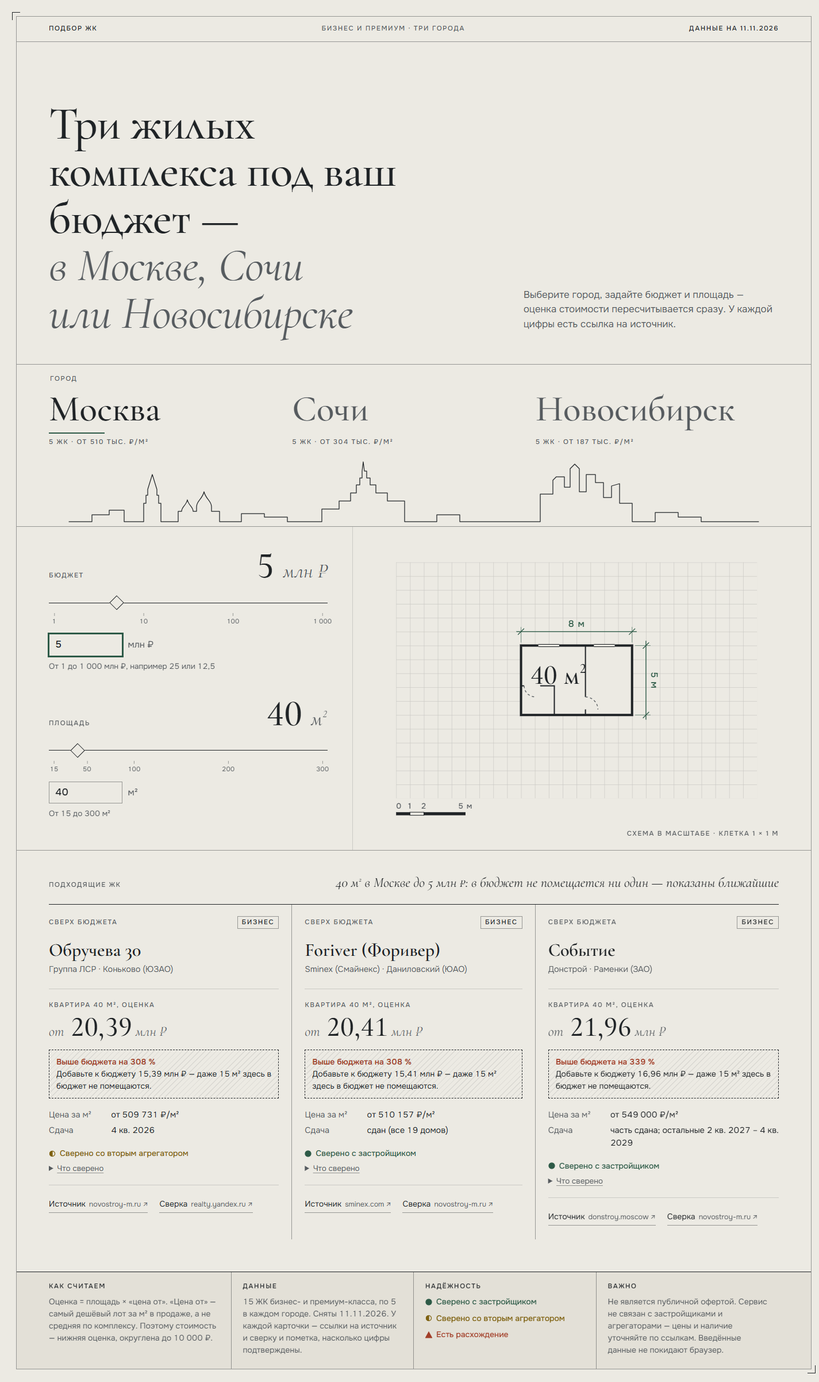
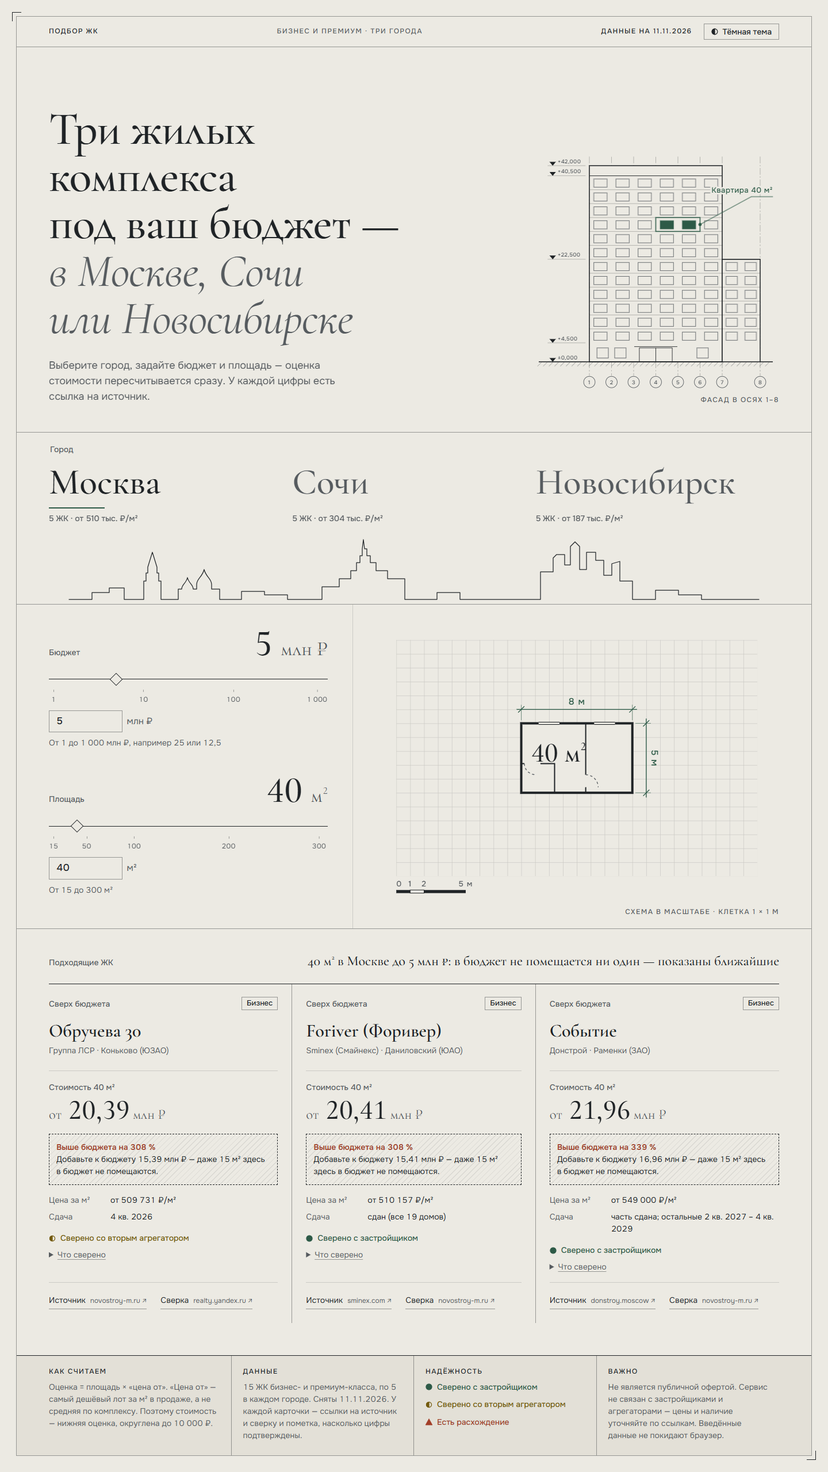
Полировка интерфейса: регистр подписей, курсив, сетка 4 px, единый формат цен
- капс оставлен только на чертёжных надписях (штамп, подписи видов),
  подписи интерфейса — обычным регистром
- курсив только во второй строке заголовка
- отступы и размеры переведены на сетку 4 px
- ссылки «Источник / Сверка» прижаты к низу карточек (margin-top
  перебивал margin-top: auto)
- оценки «от» всегда с двумя знаками: 9,80 рядом с 21,96
- подчёркивание города анимируется transform, а не width
- обновлены скриншоты и GIF, убраны устаревшие снимки

diff --git a/web/public/style.css b/web/public/style.css
@@ -41,7 +41,8 @@ ol, ul { list-style: none; }
 a { color: inherit; }
 :focus-visible { outline: 2px solid var(--accent); outline-offset: 3px; }
 
-.caps { font: 500 11.5px/1.3 var(--text); letter-spacing: .14em; text-transform: uppercase; }
+.caps { font: 500 12px/1.3 var(--text); letter-spacing: .12em; text-transform: uppercase; } /* только чертёжные надписи: штамп, подписи видов */
+.label { font: 500 14px/1.3 var(--text); }
 .muted { color: var(--ink-2); }
 .sr-only { position: absolute; width: 1px; height: 1px; overflow: hidden; clip-path: inset(50%); white-space: nowrap; }
 
@@ -57,7 +58,7 @@ a { color: inherit; }
     linear-gradient(var(--line), var(--line)) 75% 0 / 1px 100% no-repeat;
 }
 .sheet::before, .sheet::after {
-  content: ""; position: absolute; width: 14px; height: 14px; pointer-events: none;
+  content: ""; position: absolute; width: 16px; height: 16px; pointer-events: none;
   border: 0 solid var(--ink);
 }
 .sheet::before { top: -8px; left: -8px; border-width: 1px 0 0 1px; }
@@ -65,18 +66,18 @@ a { color: inherit; }
 .sheet > *, main > * { padding-inline: var(--gutter); }
 .sheet > main { padding-inline: 0; }
 .sq { font-size: .5em; vertical-align: .8em; line-height: 0; margin-left: .04em; }
-.big .u { font-size: .55em; font-style: italic; font-weight: 400; color: var(--ink-2); }
+.big .u { font-size: .55em; font-weight: 400; color: var(--ink-2); }
 
 .stamp-top {
   display: flex; justify-content: space-between; align-items: center; gap: 16px;
-  padding-block: 14px;
+  padding-block: 16px;
   border-bottom: 1px solid var(--line-2);
   background: var(--paper);
 }
 
 .top-right { display: flex; align-items: center; gap: 20px; }
 .theme {
-  display: inline-flex; align-items: center; gap: 8px; margin: -6px 0; padding: 6px 10px;
+  display: inline-flex; align-items: center; gap: 8px; margin: -4px 0; padding: 4px 12px;
   border: 1px solid var(--line-2); border-radius: 0; background: transparent; color: var(--ink); cursor: pointer;
   transition: border-color .2s, color .2s;
 }
@@ -99,7 +100,7 @@ h1 > span, h1 em { display: block; }
 h1 em { font-style: italic; font-weight: 400; color: var(--ink-2); }
 .facade { justify-self: end; width: 100%; max-width: 440px; }
 .facade svg { display: block; width: 100%; height: auto; overflow: visible; }
-.facade figcaption { margin-top: 6px; text-align: right; }
+.facade figcaption { margin-top: 8px; text-align: right; }
 .fa-axis { stroke: var(--line-2); stroke-width: .6; stroke-dasharray: 10 3 2 3; }
 .fa-bub { fill: var(--paper); stroke: var(--ink-2); stroke-width: .8; }
 .fa-t { fill: var(--ink-2); font: 500 8.5px var(--text); letter-spacing: .04em; }
@@ -114,13 +115,13 @@ h1 em { font-style: italic; font-weight: 400; color: var(--ink-2); }
 .fa-lead { fill: none; stroke: var(--accent); stroke-width: .9; }
 .fa-dot { fill: var(--accent); }
 .fa-call { fill: var(--accent); font: 500 12px var(--text); letter-spacing: .04em; paint-order: stroke; stroke: var(--paper); stroke-width: 5px; stroke-linejoin: round; }
-.lead { max-width: 44ch; margin-top: 28px; color: var(--ink-2); font-size: 17px; }
+.lead { max-width: 44ch; margin-top: 28px; color: var(--ink-2); font-size: 18px; }
 
 /* Город: крупный типографический переключатель */
-.cities { border: 0; border-top: 1px solid var(--line-2); padding-top: 18px; min-width: 0; background: var(--paper); }
-.cities legend { float: left; width: 100%; margin-bottom: 6px; color: var(--ink-2); }
+.cities { border: 0; border-top: 1px solid var(--line-2); padding-top: 20px; min-width: 0; background: var(--paper); }
+.cities legend { float: left; width: 100%; margin-bottom: 8px; color: var(--ink-2); }
 .cities-row { clear: both; display: grid; grid-template-columns: repeat(3, minmax(0, 1fr)); }
-.city { position: relative; cursor: pointer; padding: 6px 0 10px; }
+.city { position: relative; cursor: pointer; padding: 8px 0 12px; }
 .city input { position: absolute; opacity: 0; inset: 0; margin: 0; cursor: pointer; }
 .city-name {
   display: block;
@@ -129,13 +130,13 @@ h1 em { font-style: italic; font-weight: 400; color: var(--ink-2); }
   transition: color .25s var(--ease);
 }
 .city-name::after {
-  content: ""; display: block; height: 2px; width: 0; margin-top: 10px;
-  background: var(--accent); transition: width .35s var(--ease);
+  content: ""; display: block; height: 2px; width: 3.2ch; margin-top: 12px;
+  background: var(--accent); transform: scaleX(0); transform-origin: left; transition: transform .35s var(--ease);
 }
 .city-meta { display: block; margin-top: 8px; color: var(--ink-2); }
 .city:hover .city-name { color: var(--ink); }
 .city input:checked ~ .city-name { color: var(--ink); }
-.city input:checked ~ .city-name::after { width: 3.2ch; }
+.city input:checked ~ .city-name::after { transform: none; }
 .city input:focus-visible ~ .city-name { outline: 2px solid var(--accent); outline-offset: 4px; }
 
 .skyline { display: block; width: 100%; height: clamp(64px, 9vw, 120px); margin-top: 8px; overflow: visible; }
@@ -164,37 +165,37 @@ h1 em { font-style: italic; font-weight: 400; color: var(--ink-2); }
 
 input[type=range] {
   -webkit-appearance: none; appearance: none;
-  display: block; width: 100%; height: 36px; margin: 14px 0 0;
+  display: block; width: 100%; height: 36px; margin: 12px 0 0;
   background: linear-gradient(var(--ink), var(--ink)) 0 50% / 100% 1px no-repeat;
   cursor: pointer;
 }
 input[type=range]::-webkit-slider-thumb {
-  -webkit-appearance: none; width: 18px; height: 18px;
+  -webkit-appearance: none; width: 16px; height: 16px;
   background: var(--paper); border: 1.5px solid var(--ink); transform: rotate(45deg);
 }
 input[type=range]::-moz-range-thumb {
-  width: 15px; height: 15px; border-radius: 0;
+  width: 12px; height: 12px; border-radius: 0;
   background: var(--paper); border: 1.5px solid var(--ink); transform: rotate(45deg);
 }
 input[type=range]:hover::-webkit-slider-thumb, input[type=range]:focus-visible::-webkit-slider-thumb { background: var(--accent); border-color: var(--accent); }
 input[type=range]:hover::-moz-range-thumb, input[type=range]:focus-visible::-moz-range-thumb { background: var(--accent); border-color: var(--accent); }
 input[type=range]:focus-visible { outline-offset: 2px; }
 
-.ticks { position: relative; height: 18px; margin: 0 9px; color: var(--ink-2); font-size: 11px; }
-.ticks span { position: absolute; left: calc(var(--p) * 100%); transform: translateX(-50%); padding-top: 6px; white-space: nowrap; }
+.ticks { position: relative; height: 20px; margin: 0 8px; color: var(--ink-2); font-size: 12px; }
+.ticks span { position: absolute; left: calc(var(--p) * 100%); transform: translateX(-50%); padding-top: 8px; white-space: nowrap; }
 .ticks span:last-child { transform: translateX(-80%); }
-.ticks span::before { content: ""; position: absolute; top: 0; left: 50%; height: 5px; border-left: 1px solid var(--line-2); }
+.ticks span::before { content: ""; position: absolute; top: 0; left: 50%; height: 4px; border-left: 1px solid var(--line-2); }
 
-.num { display: flex; align-items: baseline; gap: 10px; margin-top: 18px; }
+.num { display: flex; align-items: baseline; gap: 8px; margin-top: 16px; }
 .num input {
-  width: 7.5em; padding: 8px 10px; border: 1px solid var(--line-2); border-radius: 0;
+  width: 7.5em; padding: 8px 12px; border: 1px solid var(--line-2); border-radius: 0;
   background: transparent; color: var(--ink);
   font: 500 17px/1.2 var(--text); font-variant-numeric: tabular-nums;
 }
 .num input:focus-visible { outline-offset: 0; border-color: var(--accent); }
 .num input[aria-invalid=true] { border-color: var(--warn); border-width: 2px; }
 .unit { color: var(--ink-2); }
-.hint { margin-top: 8px; font-size: 13.5px; color: var(--ink-2); }
+.hint { margin-top: 8px; font-size: 14px; color: var(--ink-2); }
 .hint.err { color: var(--warn); font-weight: 500; }
 
 .plan { display: grid; align-content: center; gap: 4px; padding: 24px 0 20px clamp(0px, 3vw, 48px); }
@@ -216,15 +217,15 @@ input[type=range]:focus-visible { outline-offset: 2px; }
 
 /* Результаты */
 .results { padding-block: 40px 56px; background: var(--paper); }
-.res-head { display: flex; flex-wrap: wrap; justify-content: space-between; align-items: baseline; gap: 8px 24px; margin-bottom: 22px; }
+.res-head { display: flex; flex-wrap: wrap; justify-content: space-between; align-items: baseline; gap: 8px 24px; margin-bottom: 24px; }
 .res-head h2 { color: var(--ink-2); }
-.res-sum { font: 400 italic clamp(19px, 1.8vw, 24px)/1.3 var(--display); }
+.res-sum { font: 500 clamp(20px, 1.8vw, 24px)/1.3 var(--display); }
 .cards { display: grid; grid-template-columns: repeat(3, minmax(0, 1fr)); gap: 0; border-top: 1px solid var(--ink); counter-reset: card; }
 .cards.stale { opacity: .45; transition: opacity .2s; }
 
 .card {
   position: relative; display: flex; flex-direction: column; min-width: 0;
-  padding: 18px 22px 24px; border-right: 1px solid var(--line-2);
+  padding: 20px 24px 24px; border-right: 1px solid var(--line-2);
   background: var(--paper);
 }
 .card:first-child { padding-left: 0; }
@@ -232,55 +233,56 @@ input[type=range]:focus-visible { outline-offset: 2px; }
 .card.enter { animation: card-in .34s var(--ease) both; animation-delay: calc(var(--i) * 80ms); }
 @keyframes card-in { from { opacity: 0; transform: translateY(14px); } }
 
-.card-top { display: flex; flex-wrap: wrap; align-items: center; gap: 6px 8px; min-height: 26px; }
+.card-top { display: flex; flex-wrap: wrap; align-items: center; gap: 8px; min-height: 28px; }
 .rank { margin-right: auto; color: var(--ink-2); }
-.tag { padding: 3px 7px 2px; border: 1px solid var(--line-2); color: var(--ink); }
+.tag { padding: 2px 8px; font-size: 13px; border: 1px solid var(--line-2); color: var(--ink); }
 .tag.premium { background: var(--ink); color: var(--paper); border-color: var(--ink); }
 .tag.apart { border-style: dashed; border-color: var(--ink); }
 
-.card h3 { margin-top: 18px; font: 600 clamp(26px, 2.3vw, 32px)/1.05 var(--display); text-wrap: balance; }
-.who { margin-top: 6px; color: var(--ink-2); font-size: 14.5px; }
+.card h3 { margin-top: 16px; font: 600 clamp(26px, 2.3vw, 32px)/1.05 var(--display); text-wrap: balance; }
+.who { margin-top: 8px; color: var(--ink-2); font-size: 14px; }
 
-.price { margin-top: 22px; padding-top: 14px; border-top: 1px solid var(--line); }
-.price .caps { color: var(--ink-2); }
+.price { margin-top: 24px; padding-top: 16px; border-top: 1px solid var(--line); }
+.price .label { color: var(--ink-2); }
 .price-v {
   display: block; margin-top: 4px;
   font: 500 clamp(38px, 3.4vw, 50px)/1 var(--display);
   font-variant-numeric: lining-nums tabular-nums; white-space: nowrap;
 }
-.price-v small { font-size: .5em; font-style: italic; font-weight: 400; color: var(--ink-2); }
+.price-v small { font-size: .5em; font-weight: 400; color: var(--ink-2); }
 
 .over {
-  margin-top: 14px; padding: 10px 12px;
+  margin-top: 16px; padding: 12px;
   border: 1px dashed var(--ink);
   background: repeating-linear-gradient(-45deg, var(--hatch) 0 1px, transparent 1px 7px);
   font-size: 14px;
 }
 .over strong { display: block; font-weight: 600; color: var(--warn); }
 
-.spec { display: grid; grid-template-columns: 6.5em 1fr; gap: 6px 14px; margin: 18px 0 0; font-size: 14.5px; }
+.spec { display: grid; grid-template-columns: 6.5em 1fr; gap: 8px 16px; margin: 16px 0 0; font-size: 14px; }
 .spec dt { color: var(--ink-2); }
 .spec dd { margin: 0; }
 
-.apart-note { margin-top: 12px; font-size: 13.5px; color: var(--ink-2); }
+.apart-note { margin-top: 12px; font-size: 14px; color: var(--ink-2); }
 
-.ver { display: inline-flex; align-items: center; gap: 7px; font-size: 14px; font-weight: 500; }
+.ver { display: inline-flex; align-items: center; gap: 8px; font-size: 14px; font-weight: 500; }
 .ver svg { flex: none; width: 12px; height: 12px; fill: currentColor; stroke: currentColor; stroke-width: 1.2; }
 .ver-ok { color: var(--ok); }
 .ver-partial { color: var(--partial); }
 .ver-warn { color: var(--warn); }
-.card .ver { margin-top: 18px; }
+.card .ver { margin-top: 16px; }
 
-details { margin-top: 6px; font-size: 13.5px; color: var(--ink-2); }
+details { margin-top: 8px; font-size: 14px; color: var(--ink-2); }
 summary { cursor: pointer; width: fit-content; text-decoration: underline; text-decoration-color: var(--line-2); text-underline-offset: 3px; }
-details p { margin-top: 6px; }
+details p { margin-top: 8px; }
+.card > details { margin-bottom: 16px; } /* зазор до ссылок, когда карточка самая высокая */
 
-.links { display: flex; flex-wrap: wrap; gap: 6px 20px; margin-top: auto; padding-top: 18px; font-size: 14px; }
-.links a { display: inline-flex; gap: 6px; align-items: baseline; padding-block: 4px; text-decoration: none; border-bottom: 1px solid var(--line-2); }
+.links { display: flex; flex-wrap: wrap; gap: 8px 24px; margin-top: auto; padding-top: 16px; font-size: 14px; }
+.links a { display: inline-flex; gap: 8px; align-items: baseline; padding-block: 4px; text-decoration: none; border-bottom: 1px solid var(--line-2); }
 .links a:hover { border-bottom-color: var(--accent); color: var(--accent); }
-.links a span { display: inline-block; color: var(--ink-2); font-size: 12.5px; transition: transform .2s var(--ease); }
+.links a span { display: inline-block; color: var(--ink-2); font-size: 12px; transition: transform .2s var(--ease); }
 .links a:hover span { transform: translate(2px, -2px); }
-.card .links { border-top: 1px solid var(--line); margin-top: 18px; }
+.card .links { border-top: 1px solid var(--line); }
 
 /* Штамп чертежа */
 .stamp {
@@ -288,11 +290,11 @@ details p { margin-top: 6px; }
   border-top: 1px solid var(--ink); background: var(--paper-2);
   font-size: 14px; color: var(--ink-2);
 }
-.stamp > div { padding: 18px 20px 22px 0; border-right: 1px solid var(--line-2); }
+.stamp > div { padding: 20px 20px 24px 0; border-right: 1px solid var(--line-2); }
 .stamp > div + div { padding-left: 20px; }
 .stamp > div:last-child { border-right: 0; }
 .stamp h3 { margin-bottom: 8px; color: var(--ink); }
-.legend { display: grid; gap: 6px; }
+.legend { display: grid; gap: 8px; }
 
 /* Планшет и телефон */
 @media (max-width: 1000px) {
@@ -317,12 +319,12 @@ details p { margin-top: 6px; }
   .top-right { gap: 12px; }
   .theme span { position: absolute; width: 1px; height: 1px; overflow: hidden; clip-path: inset(50%); white-space: nowrap; }
   .cities-row { grid-template-columns: 1fr; }
-  .city { padding: 12px 0 12px 22px; border-bottom: 1px solid var(--line); }
+  .city { padding: 12px 0 12px 24px; border-bottom: 1px solid var(--line); }
   .city-name { font-size: 34px; }
   .city-name::after { display: none; }
   .city input:checked ~ .city-name { color: var(--accent); }
   .city input:checked ~ .city-name::before {
-    content: ""; position: absolute; left: 0; top: 26px; width: 10px; height: 10px; background: var(--accent);
+    content: ""; position: absolute; left: 0; top: 24px; width: 10px; height: 10px; background: var(--accent);
   }
   .city-meta { margin-top: 4px; }
   .stamp { grid-template-columns: 1fr; }

diff --git a/web/public/app.js b/web/public/app.js
@@ -93,13 +93,16 @@ const host = (u) => {
   const parts = new URL(u).hostname.replace(/^www\./, '').split('.');
   return (parts.length > 2 && parts[0].length > 12 ? parts.slice(-2) : parts).join('.');
 };
-const priceHTML = (rub) => `<small>от</small> ${fmtMln(rub).replace(/ млн ₽$/, '')}<small>&nbsp;млн&nbsp;₽</small>`;
+// оценки «от» — всегда два знака, чтобы 9,80 стояло в одном формате с 21,96
+const num2 = new Intl.NumberFormat('ru-RU', { minimumFractionDigits: 2, maximumFractionDigits: 2 });
+const mln2 = (rub) => `${num2.format(rub / 1e6)} млн ₽`;
+const priceHTML = (rub) => `<small>от</small> ${num2.format(rub / 1e6)}<small>&nbsp;млн&nbsp;₽</small>`;
 
 function overHTML(i) {
   const pct = i.overPct >= 1 ? `на ${i.overPct} %` : 'менее чем на 1 %';
   const fix = i.maxArea
-    ? `Добавьте к бюджету ${fmtMln(i.extra)} или уменьшите площадь до ${i.maxArea} м².`
-    : `Добавьте к бюджету ${fmtMln(i.extra)} — даже 15 м² здесь в бюджет не помещаются.`;
+    ? `Добавьте к бюджету ${mln2(i.extra)} или уменьшите площадь до ${i.maxArea} м².`
+    : `Добавьте к бюджету ${mln2(i.extra)} — даже 15 м² здесь в бюджет не помещаются.`;
   return `<strong>Выше бюджета ${pct}</strong>${fix}`;
 }
 
@@ -107,14 +110,14 @@ function cardHTML(i, n) {
   const [verText, verIcon] = VER[i.verification];
   return `<li class="card${i.over ? ' is-over' : ''}" style="--i:${n}">
     <div class="card-top">
-      <span class="rank caps">${i.over ? 'Сверх бюджета' : `Вариант ${n + 1}`}</span>
-      <span class="tag caps${i.class === 'премиум' ? ' premium' : ''}">${esc(i.class)}</span>
-      ${i.isApartments ? '<span class="tag apart caps">Апартаменты</span>' : ''}
+      <span class="rank label">${i.over ? 'Сверх бюджета' : `Вариант ${n + 1}`}</span>
+      <span class="tag label${i.class === 'премиум' ? ' premium' : ''}">${esc(i.class[0].toUpperCase() + i.class.slice(1))}</span>
+      ${i.isApartments ? '<span class="tag apart label">Апартаменты</span>' : ''}
     </div>
     <h3>${esc(i.name)}</h3>
     <p class="who">${esc(i.developer)} · ${esc(i.district)}</p>
     <div class="price">
-      <span class="caps">Стоимость ${num.format(state.area)}&nbsp;м²</span>
+      <span class="label">Стоимость ${num.format(state.area)}&nbsp;м²</span>
       <span class="price-v" data-v="${i.estimate}">${priceHTML(i.estimate)}</span>
     </div>
     ${i.over ? `<p class="over">${overHTML(i)}</p>` : ''}
@@ -146,7 +149,7 @@ function renderResults() {
     // те же ЖК — обновляем цифры на месте, раскрытые «Что сверено» не схлопываются
     cards.querySelectorAll('.card').forEach((c, n) => {
       const i = r.results[n];
-      c.querySelector('.price .caps').innerHTML = `Стоимость ${num.format(state.area)}&nbsp;м²`;
+      c.querySelector(".price .label").innerHTML = `Стоимость ${num.format(state.area)}&nbsp;м²`;
       if (i.over) c.querySelector('.over').innerHTML = overHTML(i);
       countPrice(n, Number(c.querySelector('.price-v').dataset.v), i.estimate);
     });
@@ -160,7 +163,7 @@ function renderResults() {
   clearTimeout(liveTimer);
   liveTimer = setTimeout(() => {
     $('live').textContent = `${$('res-sum').textContent.replace('м2', 'м²')}. ` +
-      r.results.map((i) => `${i.name}, от ${fmtMln(i.estimate)}${i.over ? `, выше бюджета на ${Math.max(1, i.overPct)} %` : ''}`).join('; ');
+      r.results.map((i) => `${i.name}, от ${mln2(i.estimate)}${i.over ? `, выше бюджета на ${Math.max(1, i.overPct)} %` : ''}`).join('; ');
   }, 600);
 }
 
@@ -275,7 +278,7 @@ function init(data) {
     const min = Math.min(...list.map((i) => i.pricePerM2));
     return `<label class="city"><input type="radio" name="city" value="${c}"${c === state.city ? ' checked' : ''}>
       <span class="city-name">${c}</span>
-      <span class="city-meta caps">${list.length} ЖК · от ${Math.round(min / 1000)} тыс. ₽/м²</span></label>`;
+      <span class="city-meta label">${list.length} ЖК · от ${Math.round(min / 1000)} тыс. ₽/м²</span></label>`;
   }).join('');
   $('cities').addEventListener('change', (e) => setCity(e.target.value));
 

diff --git a/web/public/index.html b/web/public/index.html
@@ -10,8 +10,8 @@
 <link rel="preconnect" href="https://fonts.googleapis.com">
 <link rel="preconnect" href="https://fonts.gstatic.com" crossorigin>
 <!-- шрифты не блокируют отрисовку: сначала текст запасным шрифтом с подогнанными метриками -->
-<link rel="preload" as="style" href="https://fonts.googleapis.com/css2?family=Cormorant+Garamond:ital,wght@0,400;0,500;0,600;1,400;1,500&family=Onest:wght@400;500;600&display=swap" onload="this.onload=null;this.rel='stylesheet'">
-<noscript><link rel="stylesheet" href="https://fonts.googleapis.com/css2?family=Cormorant+Garamond:ital,wght@0,400;0,500;0,600;1,400;1,500&family=Onest:wght@400;500;600&display=swap"></noscript>
+<link rel="preload" as="style" href="https://fonts.googleapis.com/css2?family=Cormorant+Garamond:ital,wght@0,400;0,500;0,600;1,400&family=Onest:wght@400;500;600&display=swap" onload="this.onload=null;this.rel='stylesheet'">
+<noscript><link rel="stylesheet" href="https://fonts.googleapis.com/css2?family=Cormorant+Garamond:ital,wght@0,400;0,500;0,600;1,400&family=Onest:wght@400;500;600&display=swap"></noscript>
 <script>try { const t = localStorage.getItem('theme'); if (t === 'light' || t === 'dark') document.documentElement.dataset.theme = t; } catch {}</script>
 <link rel="stylesheet" href="style.css">
 <link rel="modulepreload" href="pick.js">
@@ -24,7 +24,7 @@
     <span class="caps muted hide-sm">Бизнес и премиум · три города</span>
     <span class="top-right">
       <span class="caps">Данные на <time id="date" datetime="2026-11-11">11.11.2026</time></span>
-      <button class="theme caps" id="theme" type="button"><svg viewBox="0 0 12 12" aria-hidden="true"><circle cx="6" cy="6" r="4.8" fill="none"/><path d="M6 1.2a4.8 4.8 0 0 0 0 9.6z"/></svg><span>Тёмная тема</span></button>
+      <button class="theme label" id="theme" type="button"><svg viewBox="0 0 12 12" aria-hidden="true"><circle cx="6" cy="6" r="4.8" fill="none"/><path d="M6 1.2a4.8 4.8 0 0 0 0 9.6z"/></svg><span>Тёмная тема</span></button>
     </span>
   </header>
 
@@ -41,7 +41,7 @@
     </section>
 
     <fieldset class="cities">
-      <legend class="caps">Город</legend>
+      <legend class="label">Город</legend>
       <div class="cities-row" id="cities"></div>
       <svg class="skyline" viewBox="0 0 1200 120" preserveAspectRatio="xMidYMax meet" aria-hidden="true" focusable="false">
         <path data-city="Москва" pathLength="1" d="M0,112H40V100H70V92H96V112H130V80H134V66H137V56L145,30L153,56V66H156V80H160V112H190V94H196C196,86 204,84 206,74C208,84 216,86 216,94H222V86C222,76 232,73 235,60C238,73 248,76 248,86V94H262V112H300V98H340V104H380V112H440V90H470V76H490V62H500V48H506V36H510V24L512,8L514,24H518V36H524V48H534V62H554V76H584V90V112H640V100H680V112H820V64H842V40L848,34H862V52H872V20L880,12L888,20V60H900V30H916V44H930V70H944V50L958,46V80H980V112H1020V96H1060V104H1100V112H1200"/>
@@ -54,7 +54,7 @@
       <div class="inputs">
         <div class="field" id="f-budget">
           <div class="field-head">
-            <label class="caps" for="budget-num">Бюджет</label>
+            <label class="label" for="budget-num">Бюджет</label>
             <output class="big" id="budget-out" for="budget-num budget-range">25 <span class="u">млн ₽</span></output>
           </div>
           <input type="range" id="budget-range" min="0" max="300" step="1" value="140" aria-label="Бюджет, шкала" aria-describedby="budget-hint">
@@ -68,7 +68,7 @@
 
         <div class="field" id="f-area">
           <div class="field-head">
-            <label class="caps" for="area-num">Площадь</label>
+            <label class="label" for="area-num">Площадь</label>
             <output class="big" id="area-out" for="area-num area-range">40 <span class="u">м<span class="sq">2</span></span></output>
           </div>
           <input type="range" id="area-range" min="15" max="300" step="1" value="40" aria-label="Площадь, шкала" aria-describedby="area-hint">
@@ -98,7 +98,7 @@
 
     <section class="results" aria-labelledby="res-title">
       <div class="res-head">
-        <h2 id="res-title" class="caps">Подходящие ЖК</h2>
+        <h2 id="res-title" class="label">Подходящие ЖК</h2>
         <p class="res-sum" id="res-sum"></p>
       </div>
       <ol class="cards" id="cards"></ol>
